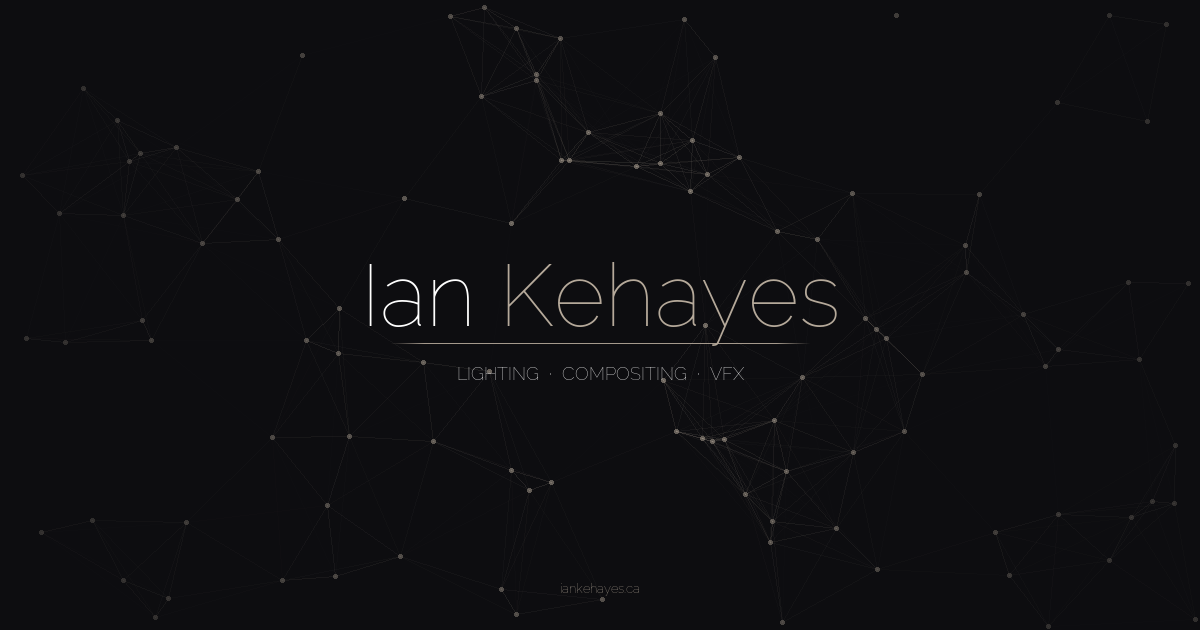
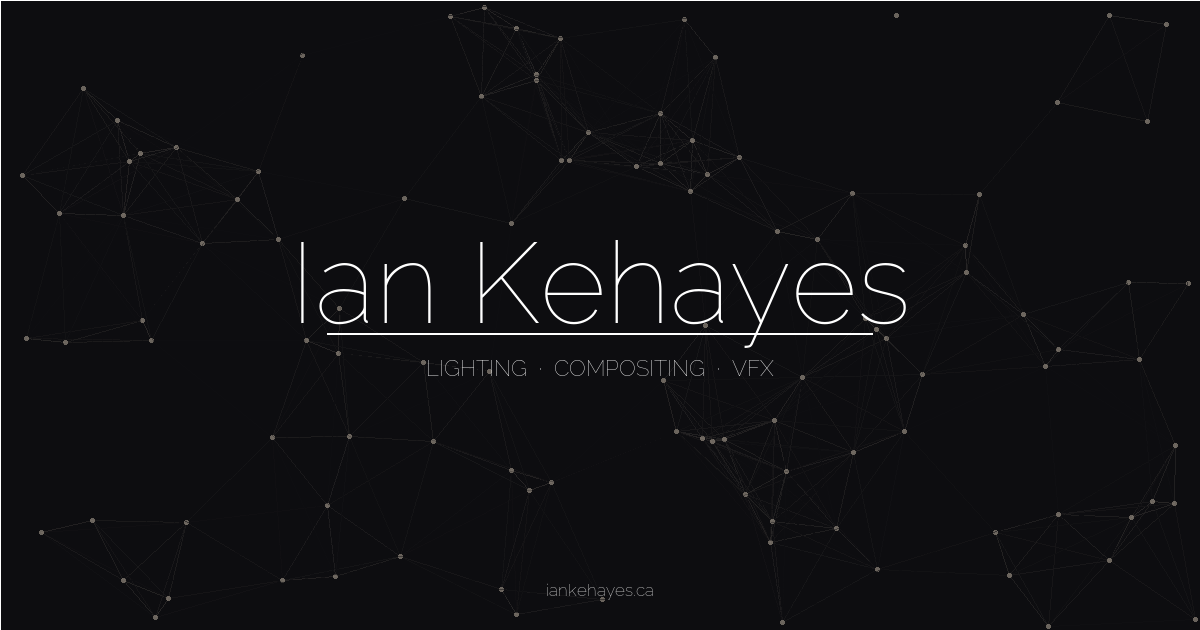
OG image: all-white text, +30% size on all text and rule

Changed region(s): [[0.2467, 0.3921, 0.7708, 0.6032], [0.4625, 0.9349, 0.5242, 0.9651]]

diff --git a/og-image.html b/og-image.html
@@ -67,11 +67,11 @@
       ctx.fillStyle = vig; ctx.fillRect(0, 0, W, H);
 
       // ── Title: "Ian Kehayes" ──
-      const titleY = H/2 - 28;
+      const titleY = H/2 - 36;
       ctx.textAlign = 'center'; ctx.textBaseline = 'alphabetic';
 
       // measure "Ian " and "Kehayes" separately to position them
-      ctx.font = '200 88px Raleway, Segoe UI, system-ui, sans-serif';
+      ctx.font = '200 114px Raleway, Segoe UI, system-ui, sans-serif';
       const ian = ctx.measureText('Ian ');
       const key = ctx.measureText('Kehayes');
       const totalW = ian.width + key.width;
@@ -81,29 +81,29 @@
       ctx.fillStyle = '#ffffff';
       ctx.fillText('Ian ', startX, titleY);
 
-      ctx.fillStyle = '#b5a99a';
+      ctx.fillStyle = '#ffffff';
       ctx.fillText('Kehayes', startX + ian.width, titleY);
 
       // ── Rule line ──
-      const ruleW = 420, ruleY = titleY + 28;
+      const ruleW = 546, ruleY = titleY + 36;
       const grad = ctx.createLinearGradient(W/2 - ruleW/2, ruleY, W/2 + ruleW/2, ruleY);
-      grad.addColorStop(0,    'rgba(181,169,154,0)');
-      grad.addColorStop(0.08, 'rgba(181,169,154,0.4)');
-      grad.addColorStop(0.5,  'rgba(181,169,154,1.0)');
-      grad.addColorStop(0.92, 'rgba(181,169,154,0.4)');
-      grad.addColorStop(1,    'rgba(181,169,154,0)');
-      ctx.strokeStyle = grad; ctx.lineWidth = 1;
+      grad.addColorStop(0,    'rgba(255,255,255,0)');
+      grad.addColorStop(0.08, 'rgba(255,255,255,0.4)');
+      grad.addColorStop(0.5,  'rgba(255,255,255,1.0)');
+      grad.addColorStop(0.92, 'rgba(255,255,255,0.4)');
+      grad.addColorStop(1,    'rgba(255,255,255,0)');
+      ctx.strokeStyle = grad; ctx.lineWidth = 1.3;
       ctx.beginPath(); ctx.moveTo(W/2 - ruleW/2, ruleY); ctx.lineTo(W/2 + ruleW/2, ruleY); ctx.stroke();
 
       // ── Subtitle ──
-      ctx.font = '300 17px Raleway, Segoe UI, system-ui, sans-serif';
-      ctx.textAlign = 'center'; ctx.fillStyle = 'rgba(255,255,255,0.58)';
+      ctx.font = '300 22px Raleway, Segoe UI, system-ui, sans-serif';
+      ctx.textAlign = 'center'; ctx.fillStyle = 'rgba(255,255,255,0.75)';
       ctx.letterSpacing = '0.28em';
-      ctx.fillText('LIGHTING  ·  COMPOSITING  ·  VFX', W/2, ruleY + 42);
+      ctx.fillText('LIGHTING  ·  COMPOSITING  ·  VFX', W/2, ruleY + 55);
 
       // ── URL ──
-      ctx.font = '300 13px Raleway, Segoe UI, system-ui, sans-serif';
-      ctx.fillStyle = 'rgba(181,169,154,0.42)';
+      ctx.font = '300 17px Raleway, Segoe UI, system-ui, sans-serif';
+      ctx.fillStyle = 'rgba(255,255,255,0.38)';
       ctx.fillText('iankehayes.ca', W/2, H - 34);
 
       // ── Wire up download ──
